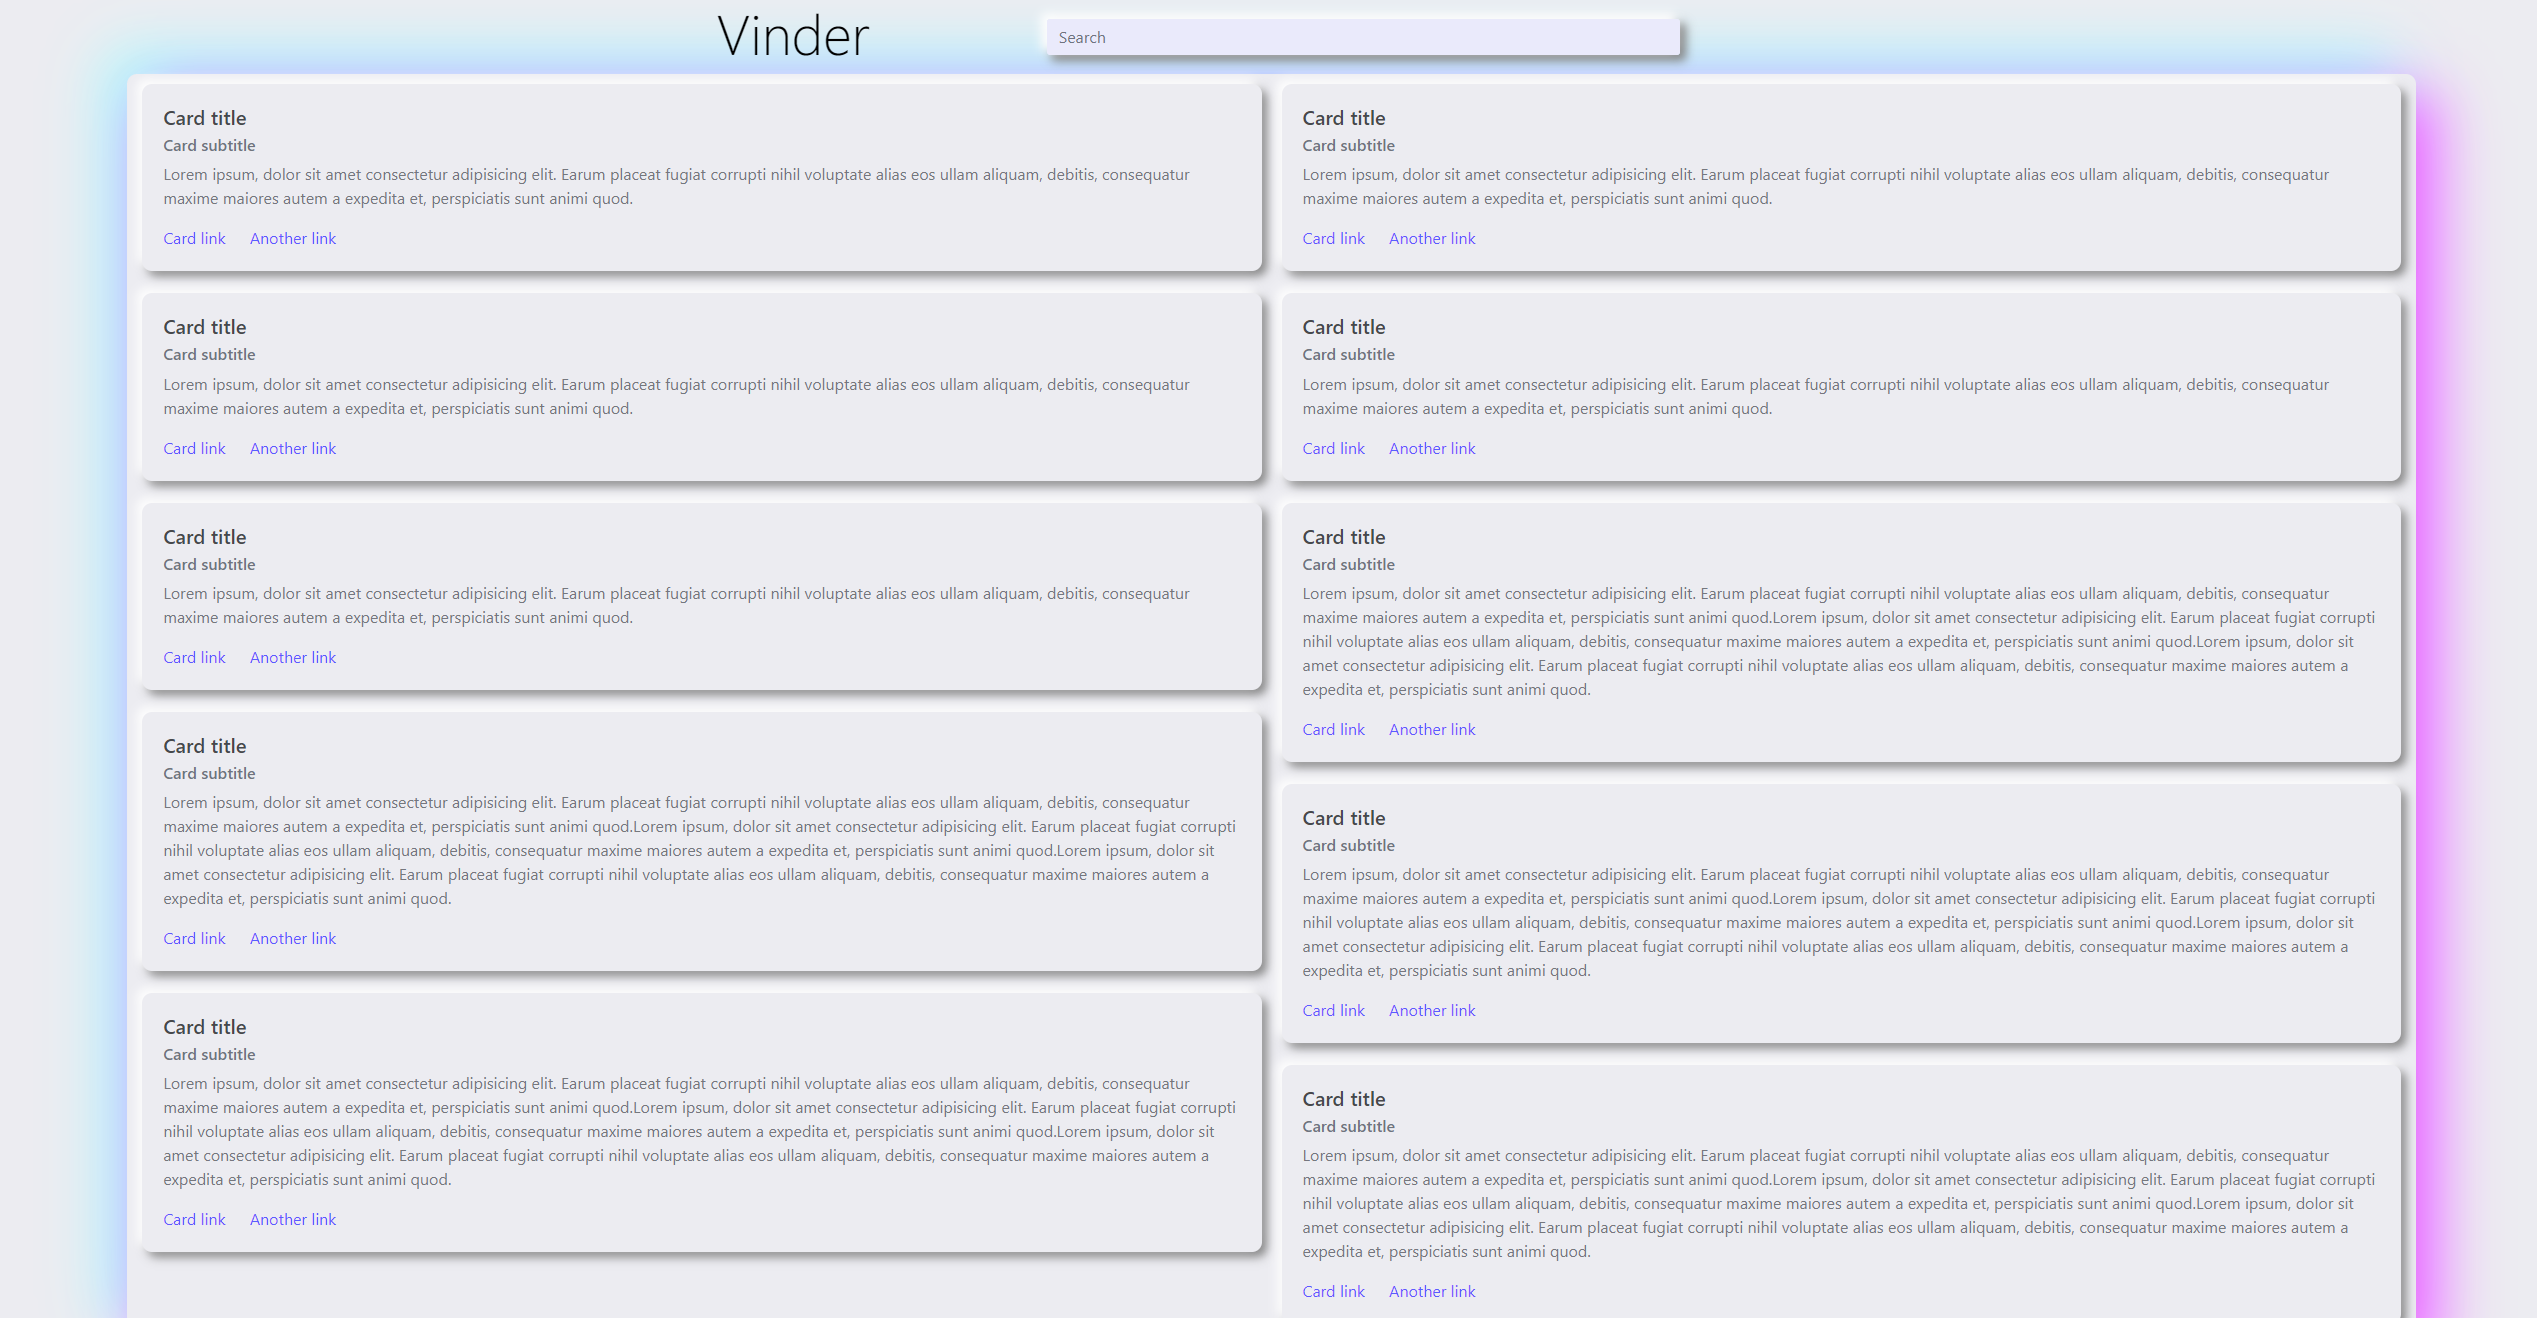
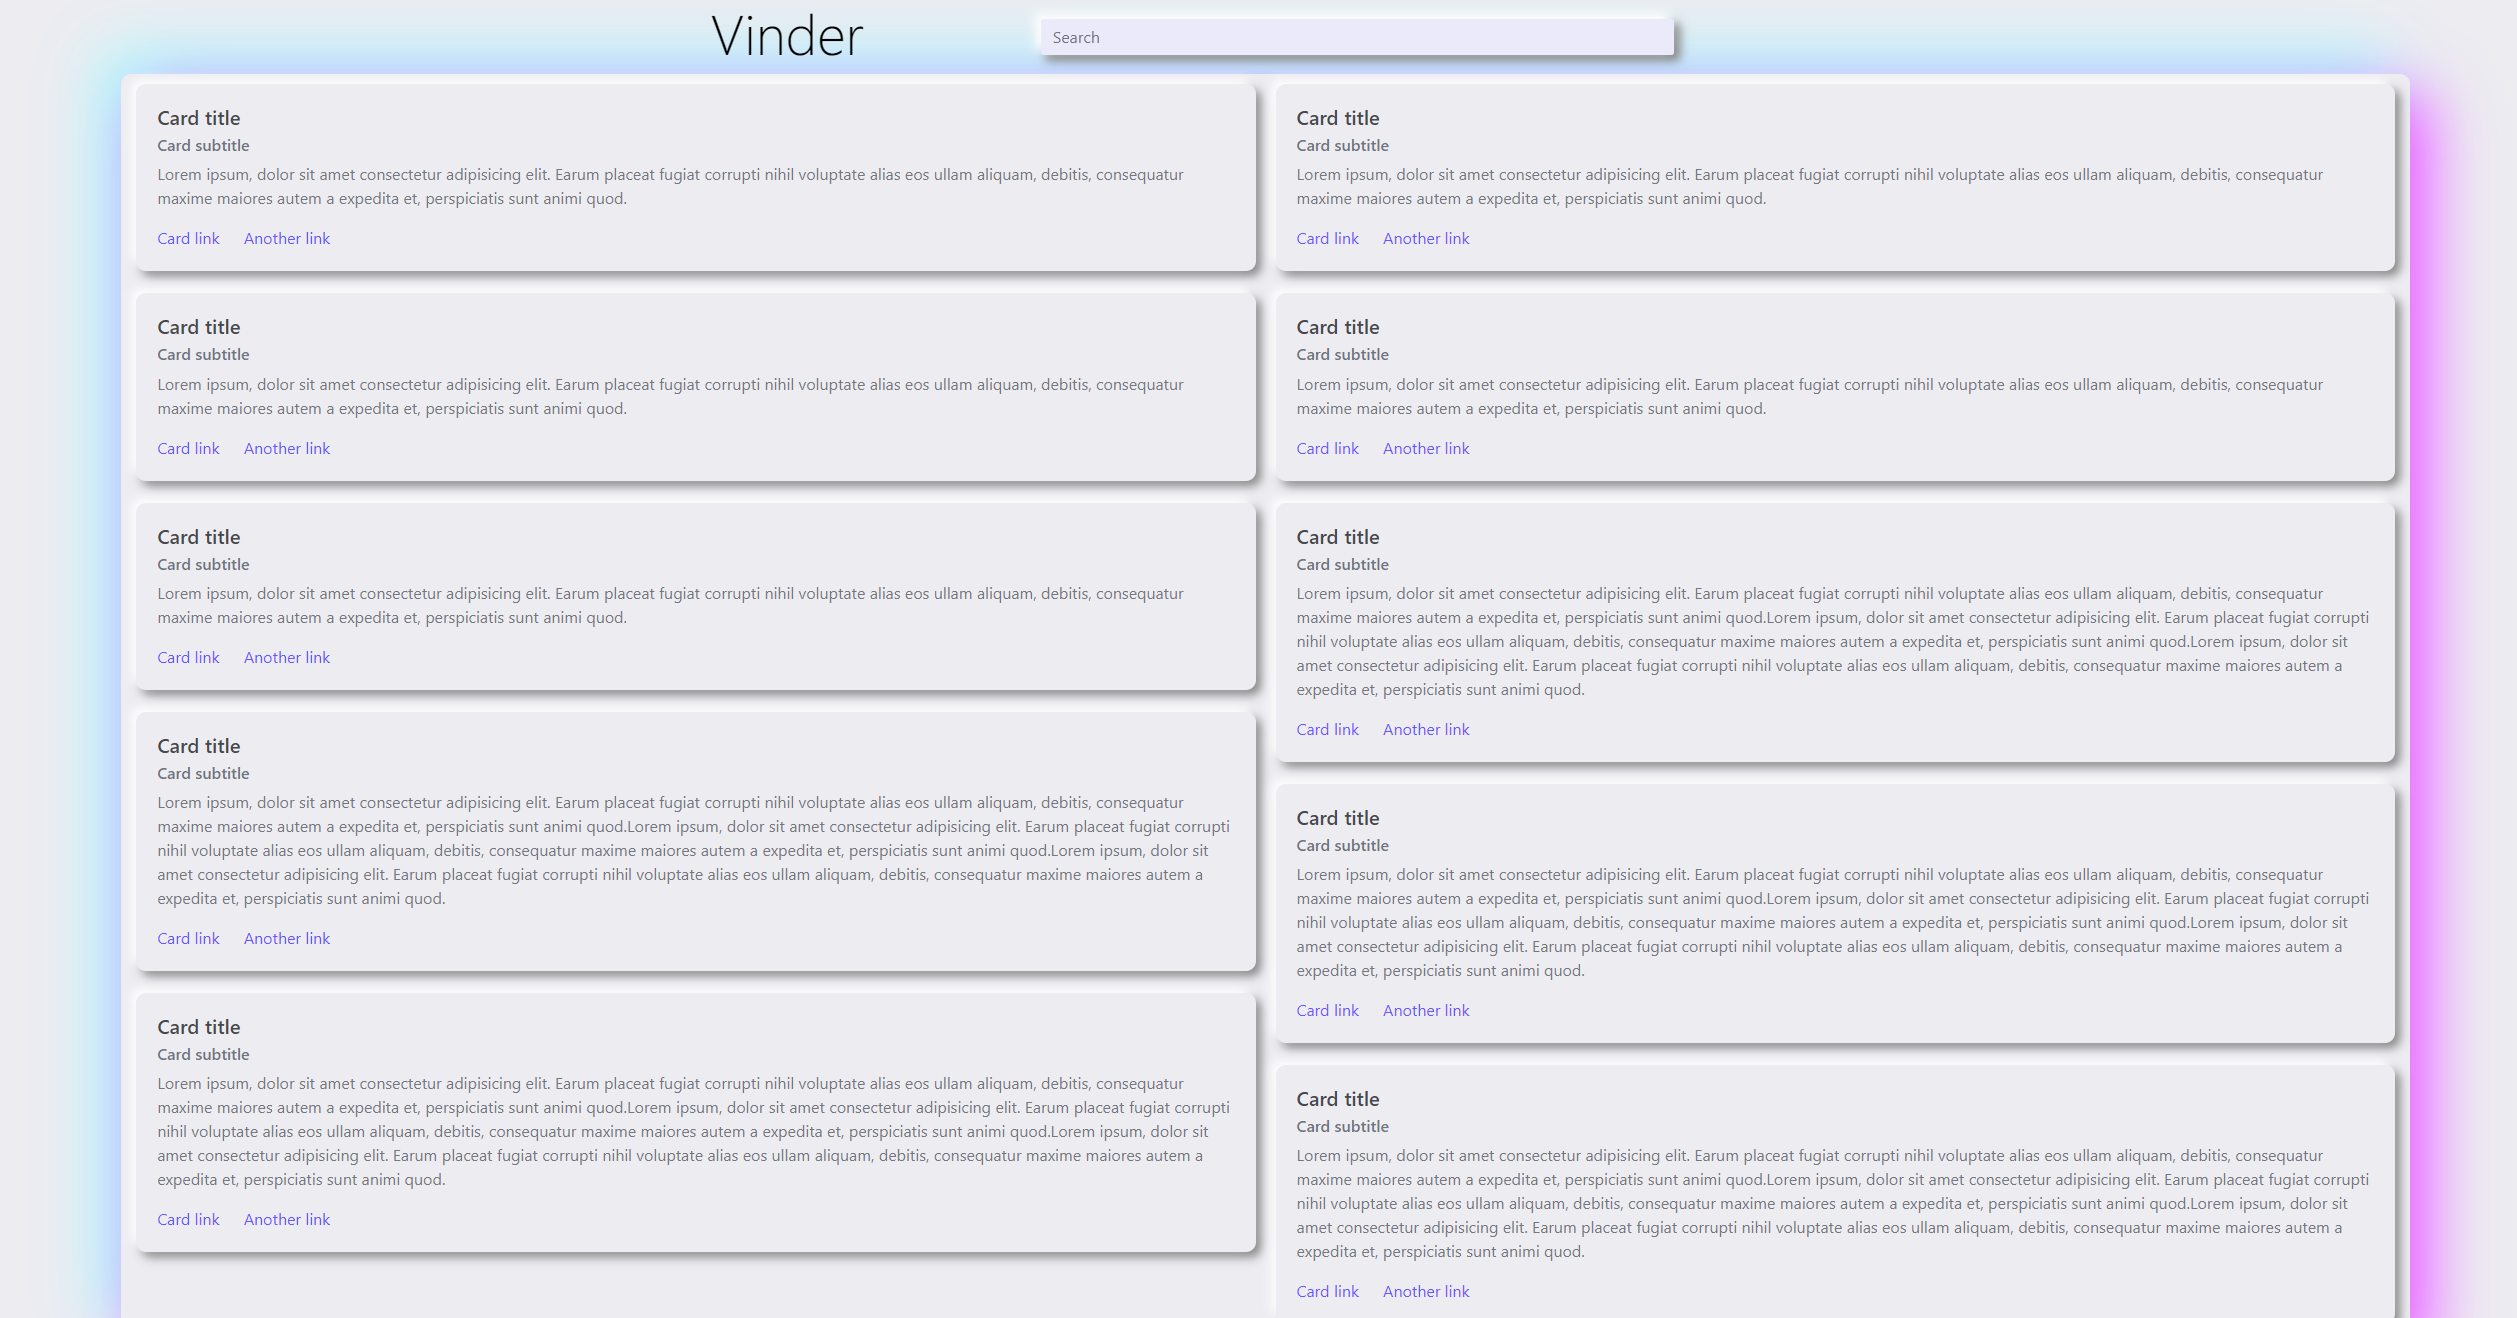
images are now linked, nav css, links and images highlight on hover

diff --git a/src/components/Gallery/index.js b/src/components/Gallery/index.js
@@ -1,7 +1,7 @@
 import React from "react";
 import { capitalizeFirstLetter } from '../../utils/helpers';
-import photo from "../../assets/small/commercial/Screenshot 2022-07-21 201236.png";
-import photo2 from "../../assets/small/commercial/Screenshot 2022-09-18 232422.png";
+import photo from "../../assets/small/commercial/Screenshot_20221123_095700.png";
+import photo2 from "../../assets/small/commercial/Screenshot_20221123_095811.png";
 import photo3 from "../../assets/small/commercial/Screenshot 2022-11-10 180353.png";
 
 
@@ -11,28 +11,31 @@ function Gallery(props) {
      
   };
   return (
-    <section>
+    <section className="Gallery">
       <h1 id="Gallery">{capitalizeFirstLetter}</h1>
-      <p></p>
       <div className="flex-row">
-      <a href="https://maxbransontaylor.github.io/genre-buddy/">GenreBuddy</a>
+      <a className="myWork" href="https://maxbransontaylor.github.io/genre-buddy/">
           <img
             src={photo}
             alt="Commercial Example"
+            href="https://maxbransontaylor.github.io/genre-buddy/"
             className="img-thumbnail mx-1"
           />
-        <a href="https://lonely-gamer-hours.herokuapp.com/home">Vinder</a>
+          </a>
+        <a className="myWork" href="https://lonely-gamer-hours.herokuapp.com/home">
             <img
             src={photo2}
             alt="Commercial Example"
             className="img-thumbnail mx-1"
           />
-          <a href="https://green-up-heroku.herokuapp.com/">Green-Up</a>
+          </a>
+          <a className="myWork" href="https://green-up-heroku.herokuapp.com/">
             <img
             src={photo3}
             alt="Commercial Example"
             className="img-thumbnail mx-1"
           />
+          </a>
       </div>
     </section>
   );

diff --git a/src/index.css b/src/index.css
@@ -63,6 +63,7 @@ h6 {
   font-weight: 500;
   margin: 5px 0;
   line-height: 1.25;
+  font-weight: bold;
 }
 
 h1 {
@@ -100,9 +101,6 @@ a {
   font-weight: bold;
 }
 
-a:hover {
-  text-decoration: underline;
-}
 a:visited { 
   text-decoration: none; 
   color: rgb(255, 255, 255); 
@@ -169,6 +167,8 @@ li {
 
 nav a:hover {
   text-decoration: none;
+  color: purple;
+  
 }
 
 nav  li {
@@ -254,6 +254,12 @@ textarea {
 .card {
   width: 25%;
   text-align: center;
+}
+.myWork:hover{
+  opacity: 0.7;
+}
+.contactMe:hover{
+color: purple;
 }
 
 .img-thumbnail {
@@ -350,9 +356,13 @@ body::before {
 }
 
 header{
-  background-color:#14C2CC;
-  background-image: 
-  radial-gradient(circle farthest-side at top, transparent, #0D64FF), radial-gradient(ellipse farthest-corner at 0% 100%, transparent, #FF00A0);
-  animation:bg-change 10s infinite;
-  border-bottom: solid black;
+  background-color:#757474;
+  /* background-image:  */
+  /* radial-gradient(circle farthest-side at top, transparent, #0D64FF), radial-gradient(ellipse farthest-corner at 0% 100%, transparent, #FF00A0); */
+  /* animation:bg-change 10s infinite; */
+   border: solid rgb(77, 77, 77); 
+   border-radius: 7px;
+}
+.title{
+  color: black;
 }

diff --git a/src/components/About/index.js b/src/components/About/index.js
@@ -8,7 +8,6 @@ function About() {
       <p>My Name is Sam Rebilas, I am based out of the Chapel Hill area. I am a graduate from UNC Greensboro With a Business degree in Information Systems and A certificate from UNC Chapel Hill coding bootcamp. I am proficient in HTML, CSS, Git, JavaScript, Server-side and third-party API's, Node.js, Express.js, SQL, NoSql, React, MERN, and State.</p>
       <p>I enjoy playing the guitar, as well as hiking, or playing videogames with friends.</p>
       <p>Feel Free to reach out and contact me below!</p>
-
     </section>
     
 

diff --git a/src/components/contact/index.js b/src/components/contact/index.js
@@ -4,11 +4,11 @@ function contact() {
   return (
     <section className="my-5">
       <h1 id="contact">Contact Me</h1>
-      <a href="https://github.com/SamRebilas">GitHub</a>
+      <a className="contactMe" href="https://github.com/SamRebilas">GitHub</a>
       <br/>
-      <a href="https://www.linkedin.com/in/sam-rebilas-a570711a1/">Linkdin</a>
+      <a className="contactMe" href="https://www.linkedin.com/in/sam-rebilas-a570711a1/">Linkdin</a>
       <br/>
-      <a href="">Resume</a>
+      <a className="contactMe" href="">Resume</a>
    
 
     </section>

diff --git a/src/components/Nav/index.js b/src/components/Nav/index.js
@@ -13,11 +13,9 @@ function Nav() {
         console.log("hello")
       }
   return (
-    <header className='heder1'>
+    <header className='header1'>
          <h1>
-    <a href="/">
-      <span role="img" aria-label="Desktop PC">🖥</span> Sam Rebilas
-    </a>
+      <span role="img" aria-label="Desktop PC">🖥</span> Sam Rebilas Portfolio
   </h1>
   <nav>
     <ul className="flex-row">
